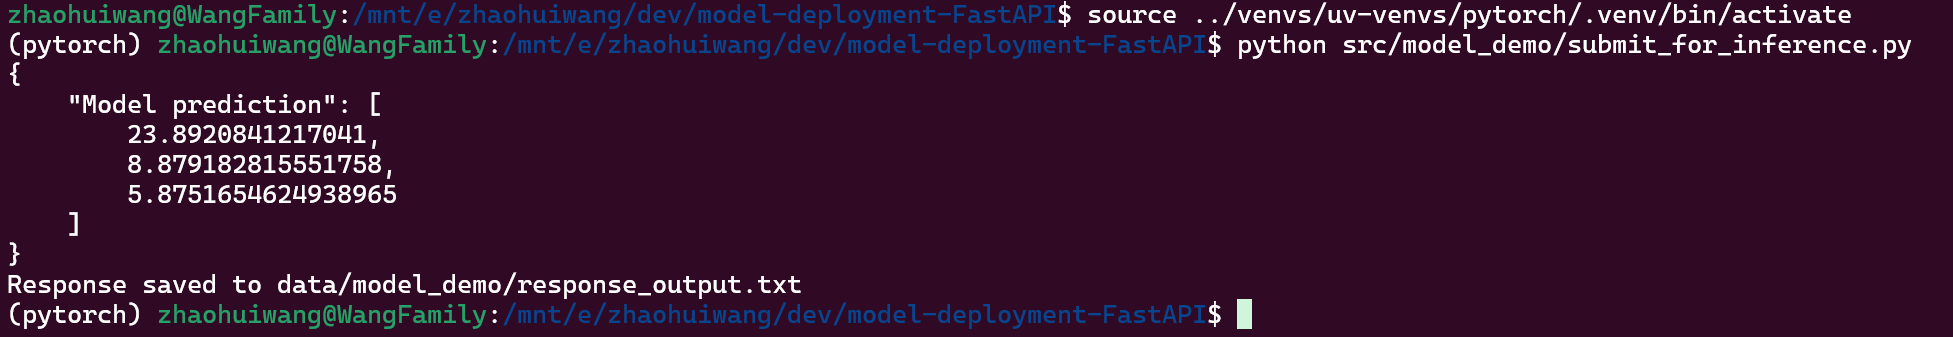
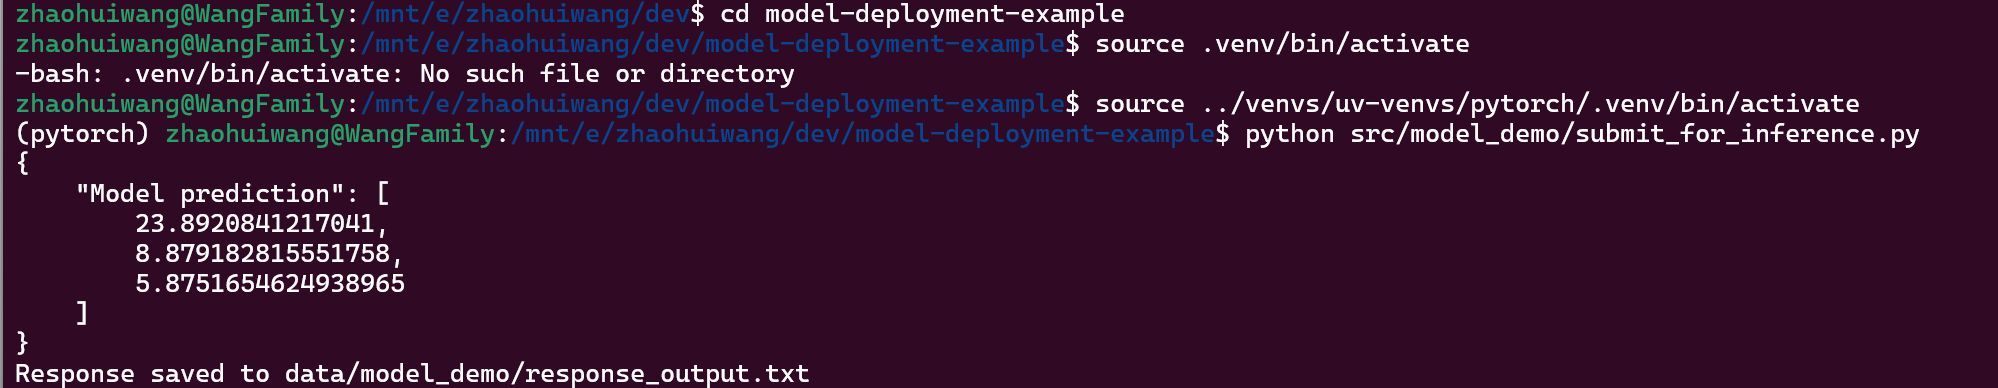
update README and images

Changed region(s): [[0.0, 0.0, 0.9995, 0.7715], [0.0, 0.8012, 0.6559, 1.0], [0.0, 0.7122, 0.0312, 0.7715]]

diff --git a/README.md b/README.md
@@ -1,19 +1,28 @@
 
 
 
-## Welcome to Zhaohui Wang's ML Model Deployment Server API Demo
+## Welcome to Zhaohui Wang's ML Model Deployment Example
+In this example project, you can find some Python script files I wrote for variou propuses including synthetic data prepration, model training/evaluation using PyTorch, model server application using FastAPI, model inference and configurations. These scripts can be executed to test the model and model inference. The main goal is to provide an example on how to deploy a trained model through FastAPI on Web application and package everything including script files and dependencies into a Docker image. The web application scripts is organized in the `fast_api.py` file and Docker configurations are organized in `Dockerfile` and `compose.yml` files. All the execution steps with detaisl from environment setup to final model deployment are described below.
 
-## Environment setup
-### Poetry environment
-There is venv in `/venvs/uv-venvs/pytorch` that can be used directly without creating it in this directory (without consuming additional GBs memory). The instruction is in `README.md` file inside the `pytorch` directory. When I need the pyproject and lock files inside this directory (e.g. building Docker), I execute the `cp` or `rsync` to syn them,
+### Environment setup (uv)
+It is recommended to setup the environment (`.venv`) inside the project directory but the downside is it comsume memory. The alternative is to create environments in a desinated directory so they maybe shared across projects. I have an environment in `/venvs/uv-venvs/pytorch` that can be used directly without creating a new one in this project directory. The instruction is in `README.md` file inside the `pytorch` directory. I still need the pyproject and lock files inside this project directory when I  build a Docker image, I just copy or syn them over from my environment directory using the following `cp` commands or `rsync` commands,
 ```Bash
 cp -u ../venvs/uv-venvs/pytorch/pyproject.toml .
 cp -u ../venvs/uv-venvs/pytorch/uv.lock .
 # rsync -av --update ../venvs/uv-venvs/pytorch/pyproject.toml .
 # rsync -av --update ../venvs/uv-venvs/pytorch/uv.lock .
 ```
-
-Create a new project directory and add at least the following python libraries.
+Here is the tree structure section showing my project directory relative to the environment directory
+```Bash
+.
+└──dev
+   ├── model-deployment-example
+   └── venvs
+        ├── poetry-venvs
+        └── uv-venvs
+             └── pytorch
+```
+To start from scratch, first step is to create a project directory then to setup a environment (`.venv`) inside the new project directory.
 ```Bash
 uv init <project-name>
 cd <project-name>
@@ -22,26 +31,26 @@ uv add fastapi[standard]
 uv add requests rich
 ```
 
-First, change the directory to your project `/dev/pytorch-projects`; start a VSCode  editor `code .`; you may need to activate the envoronment: `source .venv/bin/activate` (for my specific setting `source ../venvs/uv-venvs/pytorch/.venv/bin/activate`) after which you should expect `(venv-name)` at the begining of the bash/szh prompt indicating you are inside a Python environment. 
-You can then generate synthetic data, train a model and test the FastAPI.
+With the environment available, before any coding work we need to direct our working directory to `/dev/pytorch-projects`. I use VSCode and I execute `code .` at teminal to start a instance. Next we select a Python interpreter (environment) following these steps:  Ctl(Command)+Shift+P > Click 'Python:Select Interpreter' in the drop down manual > select if available or click 'enter interpreter path ...'. For my case, as I use the one from another directory, I enter its absolute path which is `/mnt/e/zhaohuiwang/dev/venvs/uv-venvs/pytorch/.venv/bin/python`. You may need to activate the envoronment to execute any Python script from the terminal, the command is `source .venv/bin/activate` (for my case `source ../venvs/uv-venvs/pytorch/.venv/bin/activate`). You now expect to see `(selected-venv-name)` at the begining of the bash/szh prompt indicating you are inside that Python environment. 
+You can then generate synthetic data, train a model and test the FastAPI by running the script file directly or in a module mode as describe in the next section.
 
-Here are the how the files are organized in my project directory.
+Here is the tree structure showing how the files are organized in my project directory.
 ```Bash
 .
+├── .dockerignore
+├── Dockerfile
 ├── README.md
+├── compose.yml
+├── .gitignore
 ├── data
-│   └── model_demo
-│       ├── api_logfile.log
-│       ├── data_logfile.log
-│       ├── data_tensors.pt
-│       ├── model_logfile.log
-│       ├── predictions.csv
-│       ├── predictions.npy
-│       └── predictions.txt
+│   └── model_demo ...
+├── docs ...
 ├── models
-│   └── model_demo
-│       └── demo_model_weights.pth
+│   └── model_demo ...
+├── pyproject.toml
+├── run.sh
 ├── src
+│   ├── __init__.py
 │   └── model_demo
 │       ├── __init__.py
 │       ├── config.py
@@ -52,46 +61,45 @@ Here are the how the files are organized in my project directory.
 │       └── utils.py
 ├── static
 │   └── styles.css
-└── templates
-    ├── batch_predict.html
-    ├── main.html
-    └── predict.html
+├── templates
+│   ├── batch_predict.html
+│   ├── main.html
+│   └── predict.html
+├── test
+└── uv.lock
 ```
-## Building a Demo Modle with PyTorch
-### Data Preparation
-If you like to execute the `data_prep.py` as a script file, follow this instruction
+### Building a Demo Modle with PyTorch
+#### Data Preparation
+There are many ways to generate a synthetic data using code in `data_prep.py`. The simple option is to run script file as a module
 ```Bash
-pytorchzhaohuiwang@WangFamily:/mnt/e/zhaohuiwang/dev/pytorch-projects$ python  src/model_demo/data_prep.py
-# with the following path specification in the scriptimport sys
-sys.path.append('/src/model_demo')
-from utils import synthesize_data, norm
-```
-or if you want to run it as a module
-```Bash
-pytorchzhaohuiwang@WangFamily:/mnt/e/zhaohuiwang/dev/pytorch-projects$ python -m src.model_demo.data_prep
+pytorchzhaohuiwang@WangFamily:/mnt/e/zhaohuiwang/dev/model-deployment-example$ python -m src.model_demo.data_prep
 # with the alternative specification in the script
 from src.model_demo.utils import synthesize_data, norm
 ```
-### Model Training
-I only configured and run `model_demo.py` as a module with `-m` option. 
+The second option is to execute the `data_prep.py` as a script file or run line by line (for optimization/trouble shooting)
 ```Bash
-pytorchzhaohuiwang@WangFamily:/mnt/e/zhaohuiwang/dev/pytorch-projects$ python -m src.model_demo.model_demo
+pytorchzhaohuiwang@WangFamily:/mnt/e/zhaohuiwang/dev/model-deployment-example$ python  src/model_demo/data_prep.py
+# with the following path specification in the script
+import sys
+sys.path.append('/src/model_demo')
+from utils import synthesize_data, norm
 ```
-With the following import code (compare to the `data_prep.py` above)
-```python
-from src.model_demo.utils import LinearRegressionModel, load_data, infer_evaluate_model
-```
-## Model inference
-When you want to perform model inference and evaluation, you can load the model and infer through a Python script directly (with code snippet in the comment section in `model_demo.py`). However you can only use the model in the environment where the trained model exists and can not be used by many other users. Therefore, high quanlity models should be deployed to gain business values.
-## Model Development Using Fast API
-Deploying a model via an API means exposing its functionality as a web service that can be accessed and consumed by other applications. This is a common and efficient way to make trained machine learning models useful in real-world scenarios.  
-### 1. Model inference on server
-
-To run the server from `pytorchzhaohuiwang@WangFamily:/mnt/e/zhaohuiwang/dev/pytorch-projects$ `
-
+#### Model Training
+Similar to the data paration, either script or module mode can be executed on `model_demo.py` with or without modifications. For simplicity, I only describe the module mode here. 
 ```Bash
-# via FastAPI development mode `dev` (default auto-reload enabled) or production mode
+pytorchzhaohuiwang@WangFamily:/mnt/e/zhaohuiwang/dev/model-deployment-example$ python -m src.model_demo.model_demo
+```
+#### Model inference
+When you want to perform model inference and evaluation, you can load the model and perform model inference by executing the Python script directly (the code snippet is in the comment section in `model_demo.py`). However the limitation for this approach is that you can only use the model in the same environment where the model was trained and can not be used by many other users. For more business values, high quanlity models should be deployed and the access be granded to all possible users, with consistency promise. Next two sections are examples for two model deployment approaches: Web application via FastAPI and containerization by Docker.
+
+### Model Development Using Fast API
+Deploying a model via an API means exposing its functionality as a web service that can be accessed and consumed by other applications. This is a common and efficient way to make trained ML models useful in real-world scenarios.  
+#### 1. Model inference on server
+With the FastAPI configuration in `fast_api.py` file, we can spin up a web application directly by executing any of the following code in the project directory or `dev/model-deployment-example`
+```Bash
+# via FastAPI development mode `dev` (default auto-reload enabled) 
 fastapi dev src/model_demo/fast_api.py
+# or production mode
 fastapi run src/model_demo/fast_api.py
 #  via unicorn
 uvicorn src.model_demo.fast_api:app --reload --port 8000
@@ -100,41 +108,38 @@ python -m uvicorn src.model_demo.fast_api:app --reload --port 8000
 Recommendation:
 Use `fastapi dev ...` for development due to its simplicity and auto-reload. Use `uvicorn ...` for production or when you need fine-grained control over server settings.
 
-Recommendation:
-Use fastapi dev myapp:app for development due to its simplicity and auto-reload.
-Use uvicorn myapp:app for production or when you need fine-grained control over server settings
+You may encounter error message like `[Errno 98] Address already in use`. Here is the solution: To list which PID(s) is using the port - `lsof -i :8000`, to kill the process - `kill -i <pid>`. 
 
-To list the PID `lsof -i :8000`, to kill the process `kill -i <pid>` (when there is no port available). 
-To submit test data for inference through URL http://localhost:8000/docs by Swagger UI. (typical localhost IP address is 127.0.0.1, so alternatively you may through http://127.0.0.1:8000/docs instead. Run `cat /etc/hosts` from terminal to confirm the IP address). To access the ReDoc-generated page displaying your API’s documentation, navigate to http://localhost:8000/redoc
-
-Go to Post > [Try it out] > input data into "Request body" box > [Execute]
-
-### 2. Model inference on Localhost URL
-I alse created single data point inferene and bath data inference URLs. User can follow the instruction to input the data and <code style="color : blue">Predict</code> the outcomes. 
-
+I alse created single data point inferene and bath data inference URLs. User can follow the instruction to input the data and <code style="color : blue">Predict</code> the outcomes. So once the web localhost URL is up running, we have at least three options to submit test data for inference: 
+1. Through http://localhost:8000/docs by Swagger UI. (typical localhost IP address is 127.0.0.1, so alternatively you may use http://127.0.0.1:8000/docs instead. Run `cat /etc/hosts` from terminal to confirm the IP address). Go to Post > [Try it out] > input data into "Request body" box > [Execute]. The result will be displayed in the  "Response" section below.
+2. Through http://localhost:8000/predict
+3. Through http://localhost:8000/batch_predict
 
  `http://localhost:8000/predict` | `http://localhost:8000/batch_predict`
 :---: | :---:
 ![](/docs/images/single_data_predict.png) | ![](/docs/images/batch_data_predict.png)
 
-### 3. Model inference through Python script
-To submit test data for inference through Python script
+#### 2. Model inference through Python script
+We still have the option to submit test data for inference through Python script
 ```Bash
-zhaohuiwang@WangFamily:/mnt/e/zhaohuiwang/dev/pytorch-projects$ source .venv/bin/activate
-(pytorch) zhaohuiwang@WangFamily:/mnt/e/zhaohuiwang/dev/pytorch-projects$ python src/model_demo/submit_for_inference.py
+# activate the environment (choose one according to you environment directory)
+zhaohuiwang@WangFamily:/mnt/e/zhaohuiwang/dev/model-deployment-example$ source .venv/bin/activate 
+zhaohuiwang@WangFamily:/mnt/e/zhaohuiwang/dev/model-deployment-example$ source ../venvs/uv-venvs/pytorch/.venv/bin/activate
+(pytorch) zhaohuiwang@WangFamily:/mnt/e/zhaohuiwang/dev/model-deployment-example$ python src/model_demo/submit_for_inference.py
 ```
 ![](/docs/images/script_file_predict.png)
 
 To see the prediction result from `http://localhost:8000/docs`
-### 4. Model inference via `curl`command to send POST request
-Alternatively, use curl to execute prediction. Here are examples (optional: `&&echo` to add a blank line)
+#### 3. Model inference via `curl`command to send POST request
+Alternatively, we can use curl to execute prediction. Here are examples (optional: `&&echo` to add a blank line)
 ```Bash
 curl -X POST "http://localhost:8000/predict" -H "Content-Type: application/json" -d '{"feature_X_1": 1.0, "feature_X_2": 2.0}' &&echo
 curl -X POST "http://localhost:8000/batch_predict" -H "Content-Type: application/json" -d '{"input_data": [[1.0, 2.0], [3.0, 4.0]]}' &&echo
 
 ```
 ![](/docs/images/curl_predict.png)
-## Localhost URL
+
+### Localhost URL Table
 | Localhost URL                 | Description                    | 
 | ------------------------------------- | ------------------------------ |
 | http://localhost:8000/               | Root / main  | 
@@ -145,11 +150,13 @@ curl -X POST "http://localhost:8000/batch_predict" -H "Content-Type: application
 | The most common localhost address used for servers is 127.0.0.1. | 
 
 
-## Model Development Using Docker
-Docker enables developers to package their applications and all of their dependencies into "containers", which can be easily shared and deployed across different systems. Anyone who has access to a docker container can run the model application without worrying about the environment dependencies, operation systems etc. This ensures that your model runs the same way (reproducibility and consistency) regardless of the underlying infrastructure, making collaboration and deployment much smoother. 
-The first step is to create a Dockerfile with instructions on how to assemble a docker image, a snapshot of the model application and its dependencies. An optional file called `.dockerignore` to specify which files and directories to exclude from the build context sent to the Docker daemon during the image build process. I created the `Dockerfile` for this project inside the project directory and included `.venv` `.git` into the `.dockerignore` file.
+### Model Development Using Docker
 
-If your environment was set up inside the project folder (most common), you can skip this step. Because I am using a Python environment from another directory, I first copied/synced the `pyproject.toml` and `uv.lock` files from the environment directory to this project directory, using the follow command,
+#### Dockerfile
+Docker enables developers to package their applications and all of their dependencies into "containers", which can be easily shared and deployed across different systems. Anyone who has access to a docker container can run the model application without worrying about the environment dependencies, operation systems etc. This ensures that your model runs the same way (ensuring reproducibility and consistency) regardless of the underlying infrastructure, making collaboration and deployment much smoother. 
+The first step is to create a Dockerfile with instructions on how to assemble a docker image, a snapshot of the model application and its dependencies. I also prefer to add a (optional) `.dockerignore` file to specify which files and directories to exclude from the build context sent to the Docker daemon during the image build process. In my file layout, I have both the `Dockerfile` file and the `.dockerignore` (content with `.venv` `.git`) file for this project inside the project directory.
+
+If your environment was set up inside the project folder (most common), you can skip this step. Because I am using a Python environment from another directory, I need to copy/sync the `pyproject.toml` and `uv.lock` files from the environment directory to this project directory, using the follow command,
 ```Bash
 cd model-deployment-example
 # copy file to current dir via cp 
@@ -160,7 +167,7 @@ cp -u ../venvs/uv-venvs/pytorch/uv.lock .
 rsync -av --update ../venvs/uv-venvs/pytorch/pyproject.toml .
 rsync -av --update ../venvs/uv-venvs/pytorch/uv.lock .
 ```
-Once the Dockerfile is ready, we can create the image with the following command ("demoapp:v1" is the name/version of the image) with Docker Desktop open. 
+Once the Dockerfile is ready, we can then open the Docker Desktop app and create a docker image using the following command ("demoapp:v1" is the name/version of the image). 
 ```Bash
 # To build a Docker images from the directory where Dockerfile lives
 docker build -t myapp:v1 .
@@ -168,14 +175,16 @@ docker build -t myapp:v1 .
 docker images
 # To remove a specific docker image
 docker image rm <IMAGE ID>
-# To create and start a new container based on the `myapp:v1` Docker image 
-# with the default application CMD specified in the Dockerfile
+```
+Next to create and start a new container based on the Docker image (`myapp:v1`) with `-p` or `--publish` flag (syntax: `docker run -p [host_ip:]host_port:container_port[/protocol] [image_name]`). The publication flag ensures the access of the outside host to the Docker container's port.
+```Bash
+# Start with the default application CMD specified in the Dockerfile
 docker run -p 8000:8000 -it --rm myapp:v1
-# or with the override option (the same CMD here for illustration propuse )
+# or with the override option (the same CMD as in Dockerfile for illustration propuse only)
 docker run -p 8000:8000 -it --rm myapp:v1 fastapi run --host 0.0.0.0 src/model_demo/fast_api.py
-# Note: Both the host binding `-p 8000:8000` [host]:[Docker] and the `--host 0.0.0.0` specifications are critical. 
+# Note: Both the `-p` and the `--host 0.0.0.0` specifications are critical. 
 
-# To overrides the image’s default command, and start an interactive Bash shell inside the container. -- to check file structure inside the docker
+# To overrides the image’s default command, and start an interactive Bash shell inside the container
 docker run -it --rm myapp:v1 /bin/bash
 # or start to run python executable inside the container
 docker run -it --rm myapp:v1 python
@@ -184,6 +193,23 @@ docker run -it myapp:v1  ls -R /app
 
 # Ctrl + d ot type `exist` to exist or detach from a container
 
-# to kill a running container
+# To kill a running container
 docker kill <IMAGE ID>  
+```
+The model is now deployed in Docker! Everyone can pull this Docker image and run the application if Docker is installed on their machine and expect the promised consistent outcomes.
+
+References:
+ 1. [Using uv in Docker ](https://github.com/astral-sh/uv-docker-example/blob/main/README.md)
+
+#### Docker compose
+We can simplify the control of the entire application stack with docker compose. In the `compose.yml` file, I instruct Docker daemon to build a Docker image and run it with ports configuration (binds the host port to the port on the container system).
+We can then build and run the application with a sigle command.
+```Bash
+# start all the services defined in the compose.yaml file
+docker compose up
+# list all the services along with their status
+docker compose ps	
+# stop and remove the running services (clean up) (or Ctrl + c) 
+docker compose down
+
 ```
